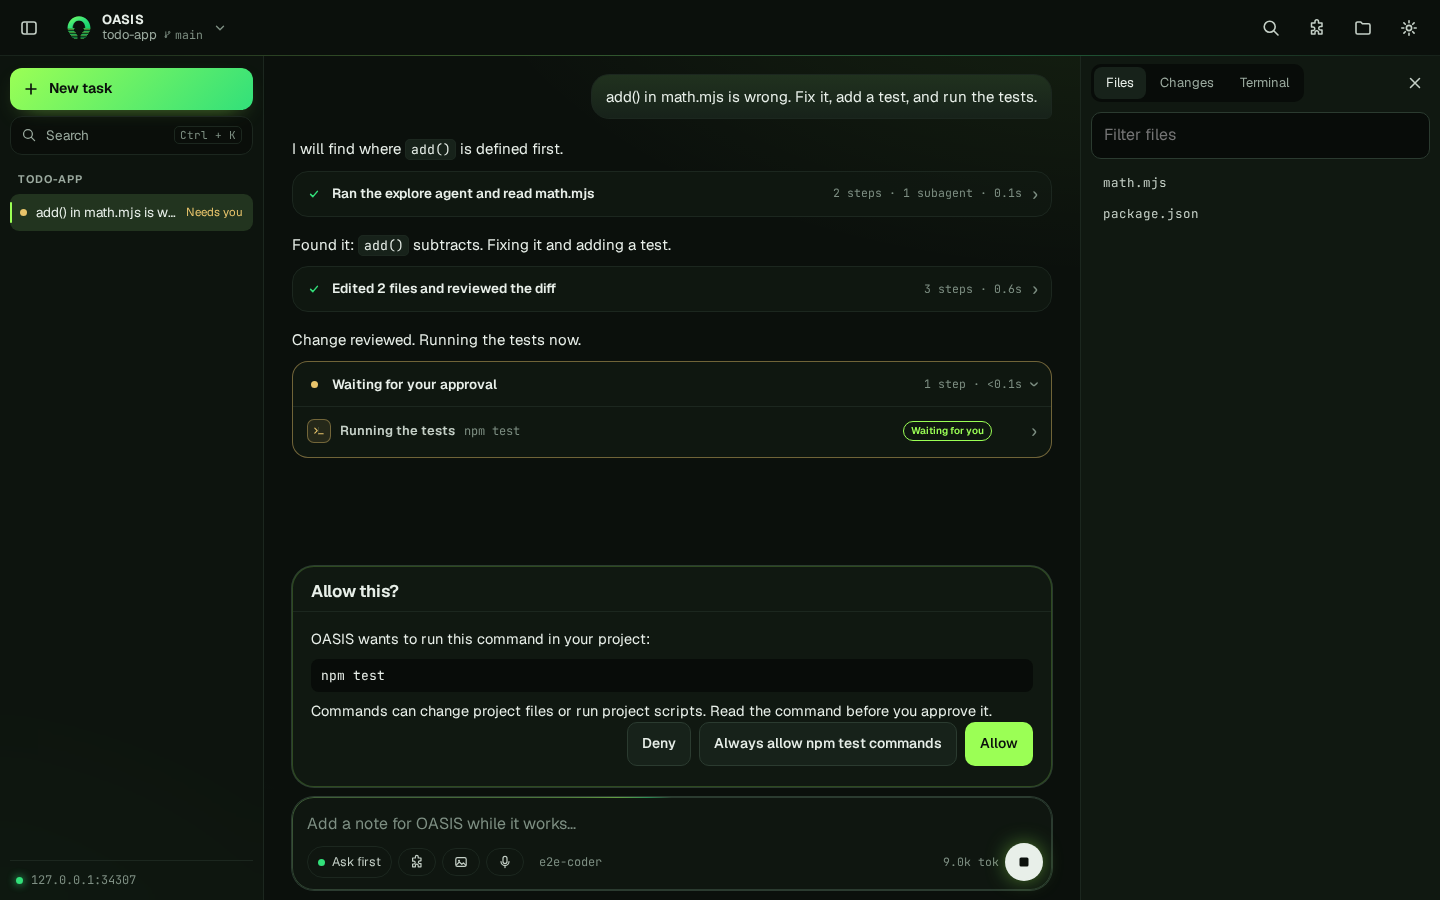
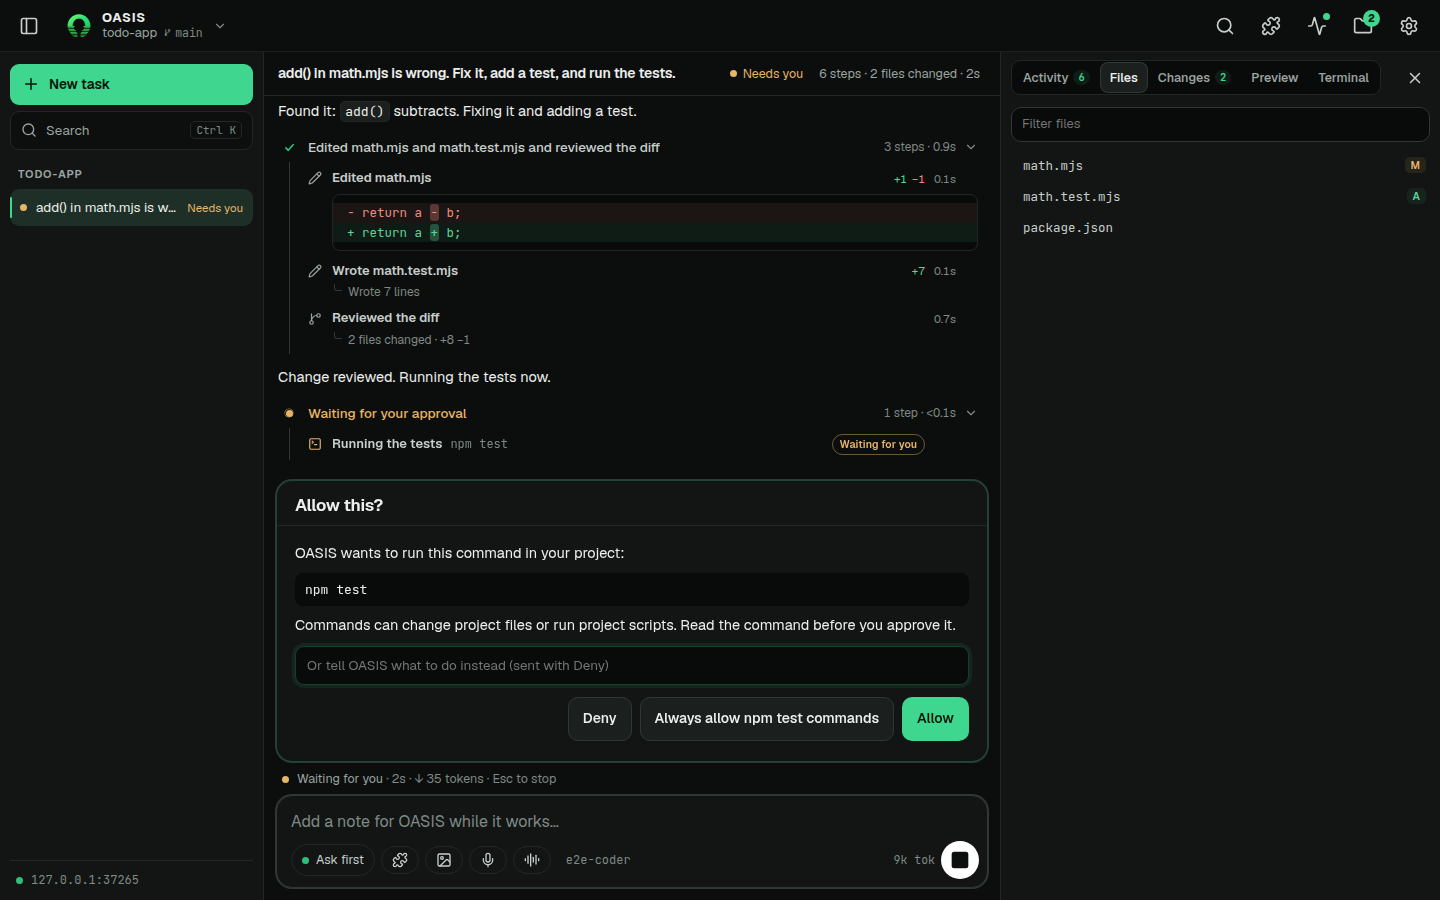
Polish the web app: general-purpose built-in plugins, cleaner phone header, fresh screenshots
Adds Researcher, Data analyst and Writer built-in plugins, shows built-in
plugins before the Claude Code marketplace, sends plugin instructions with
runtime requests, tidies the phone header and composer, refreshes the README
screenshots and fixes a timing race in the browser end-to-end check.

diff --git a/app/index.html b/app/index.html
@@ -386,6 +386,9 @@
 <section class="sheet" id="pluginsSheet" role="dialog" aria-modal="true" aria-labelledby="pluginsTitle" hidden>
   <div class="sheet-head"><h2 id="pluginsTitle">Plugins</h2><button class="icon-btn small" data-close="pluginsSheet" aria-label="Close"><svg class="icon" aria-hidden="true"><use href="icons/lucide.svg#x"/></svg></button></div>
   <div class="sheet-body">
+    <h3 class="sheet-subtitle" id="builtinPluginsTitle">Built-in plugins</h3>
+    <p class="hint">Tap a plugin to switch it on for this project; its instructions and skills go with every request. Tap a starter to run it right away. OASIS also suggests the right plugin above the message box as you type.</p>
+    <div class="plugin-grid" id="pluginGrid"></div>
     <section class="cc-plugins" id="ccPlugins" aria-labelledby="ccPluginsTitle" hidden>
       <h3 class="sheet-subtitle" id="ccPluginsTitle">Claude Code plugins</h3>
       <p class="hint">Plugins made for Claude Code work in OASIS as they are: their commands, agents, skills, hooks and MCP servers load in new chats. Hooks and MCP servers run as programs on this computer, so install only plugins you trust.</p>
@@ -403,9 +406,6 @@
       </details>
       <p class="test-result" id="ccStatus" role="status"></p>
     </section>
-    <h3 class="sheet-subtitle" id="builtinPluginsTitle">Built-in plugins</h3>
-    <p class="hint">Tap a plugin to switch it on for this project; its expert skills are loaded into every request. Tap a starter to run it right away. OASIS also suggests the right plugin above the message box as you type.</p>
-    <div class="plugin-grid" id="pluginGrid"></div>
   </div>
 </section>
 <section class="sheet" id="approvalSheet" role="alertdialog" aria-modal="true" aria-labelledby="approvalTitle" hidden>

diff --git a/app/app.css b/app/app.css
@@ -756,7 +756,7 @@ html.lite .topbar{backdrop-filter:none;-webkit-backdrop-filter:none;background:v
 .recommend span:not(.recommend-label){font-size:13px;color:var(--text-2)}
 .recommend small{font:12px/1.4 var(--mono);color:var(--muted)}
 .recommend .btn{margin-top:6px;text-decoration:none}
-.cc-plugins{margin:0 0 20px;padding-bottom:16px;border-bottom:1px solid var(--line)}
+.cc-plugins{margin:20px 0 0;padding-top:16px;border-top:1px solid var(--line)}
 .sheet-subtitle{margin:0 0 6px;font-size:15px}
 .cc-plugins .connection-list{margin:10px 0}
 .cc-plugins .connection-list li{display:flex;align-items:center;gap:12px;padding:10px 12px;border:1px solid var(--line);border-radius:12px}
@@ -1090,3 +1090,15 @@ html.lite .topbar{backdrop-filter:none;-webkit-backdrop-filter:none;background:v
 .cr-row.completed .run-dot{background:var(--accent-2)}
 .cr-history .cr-row{padding:6px 10px}
 #controlRoomSheet .sheet-head .hint{margin-left:auto;margin-right:8px}
+
+/* Presentation polish: a calmer first screen on tall displays, and a phone
+   header and composer that keep the project and model names readable. */
+@media (min-width:720px) and (min-height:760px){.welcome{padding-top:13vh}}
+@media (max-width:480px){
+  .brand{gap:8px;padding:6px 4px}
+  .brand-name{display:none}
+  .project-name{color:var(--text);font-weight:600;font-size:14px;max-width:40vw}
+  .topbar-actions{gap:0}
+  #activityButton{display:none}
+}
+@media (max-width:440px){#composerPlugins{display:none}.composer .model-chip{max-width:none;flex:1 1 auto}}

diff --git a/CHANGELOG.md b/CHANGELOG.md
@@ -13,6 +13,7 @@ User-facing change history grouped by package version. A version heading does no
 
 ### Highlights
 
+- Web app: three general-purpose built-in plugins, Researcher, Data analyst and Writer, come first in the Plugins sheet (built-in plugins now show above the Claude Code marketplace) and are suggested as you type; a plugin's own instructions now reach the agent when the app runs on `oasis web`. On phones the header shows the project name instead of the wordmark, and the composer keeps the model name readable.
 - A background agent that stalls on a cheaper model picked by experience routing (`modelRouting.subagents: "experience"`) is restarted on the session's own model, with a note that the earlier model got stuck; the stalled run counts against the cheaper model's track record. Models you chose explicitly are kept. See [Background agents and teams](docs/SUBAGENTS.md#background-agents-and-teams).
 - `oasis models free` now checks what this computer knows: models the quota ledger has in cooldown are listed last with when they come back, each shows today's request count, and local models too large for this computer's memory are marked and never added by `--apply`. Ollama's reported parameter count is used when the tag does not include a size. See [Finding free models](docs/INFERENCE.md#finding-free-models).
 - Control room: a Communication section shows the messages agents send each other (team messages, and the main agent steering or resuming a worker) with sender, recipient, team and a short preview, and a Shared boards section shows the knowledge board (findings, grounded, corroborated, retracted) and the task board (in progress, pending, done, who holds each claim and the latest handoff checkpoint). See [Control room](docs/CONTROL_ROOM.md#what-it-shows).
